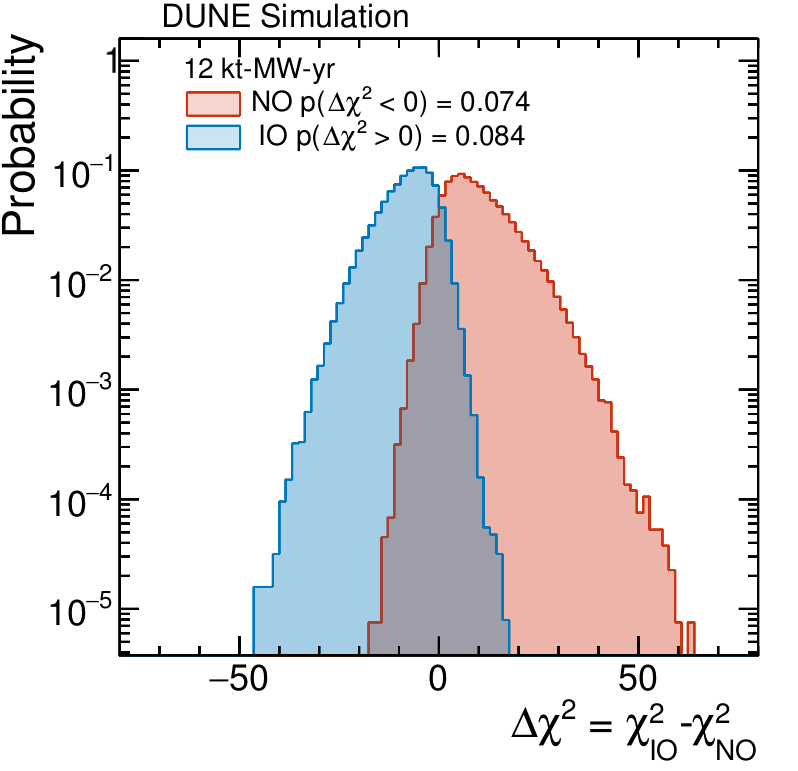
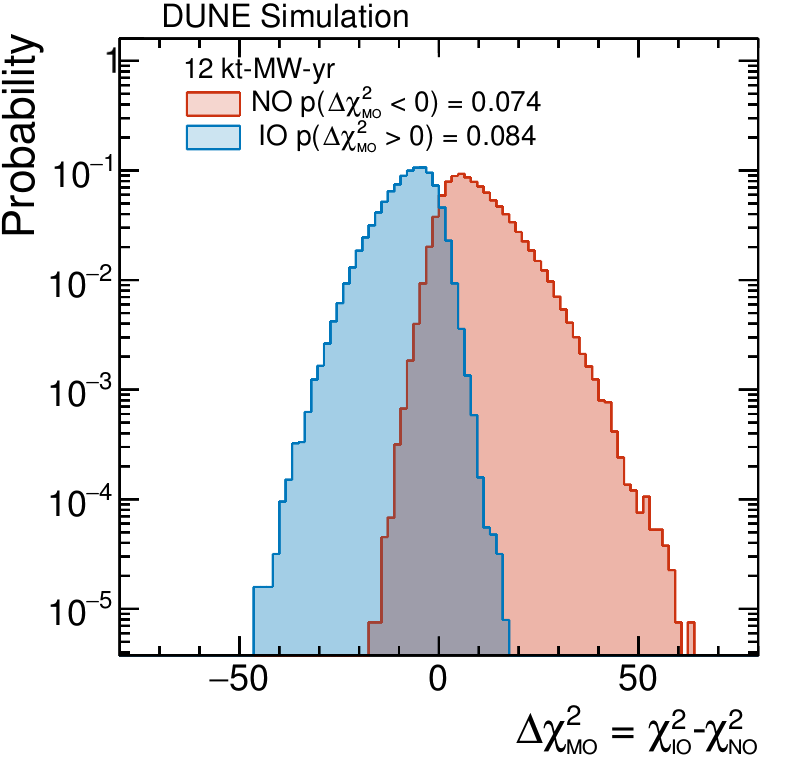
Nearly finished the ARC comments...

Changed region(s): [[0.6316, 0.9027, 0.9624, 0.9961], [0.4511, 0.0934, 0.6917, 0.2179]]

diff --git a/sections/cp_sens.tex b/sections/cp_sens.tex
@@ -11,9 +11,9 @@ In this section, CPV sensitivity results are presented. For simplicity, only tru
   \caption{Significance of the DUNE determination of CP-violation ($\deltacp \neq \{0,\pm\pi\}$) as a function of the true value of \deltacp, for 66 kt-MW-yr (blue) and 100 kt-MW-yr (orange) exposures, for normal (top) and inverted (bottom) orderings. The width of the transparent bands cover 68\% of fits in which random throws are used to simulate systematic, oscillation parameter and statistical variations, with independent fits performed for each throw constrained by prior uncertainties. The solid lines show the median significance.}
   \label{fig:cpv_bands}
 \end{figure}
-Figure~\ref{fig:cpv_bands} shows the significance with which CPV ($\deltacp \neq \{0,\pm\pi\}$) can be observed for both NO and IO, for exposures of 66 and 100 kt-MW-yr.  The sensitivity metric used is the square root of the difference between the best fit $\chi^{2}$ value obtained for a CP-conserving fit and one where \deltacp is allowed to vary, as shown in Equation~\ref{eq:mh_chi2}, which is calculated for each throw of the systematic, other oscillation parameters and statistics. This constant-\dchisq method is valid as long as Wilks' theorem can be applied~\cite{wilks}.
+Figure~\ref{fig:cpv_bands} shows the significance with which CPV ($\deltacp \neq \{0,\pm\pi\}$) can be observed for both NO and IO, for exposures of 66 and 100 kt-MW-yr.  The sensitivity metric used is the square root of the difference between the best fit $\chi^{2}$ values obtained for a CP-conserving fit and one where \deltacp is allowed to vary, as shown in Equation~\ref{eq:mh_chi2}, which is calculated for each throw of the systematic, other oscillation parameters and statistics. This constant-\dchisq method is valid as long as Wilks' theorem can be applied~\cite{wilks}.
 
-The sensitivity shown in Figure~\ref{fig:cpv_bands} has a characteristic double peak structure because the significance of a CPV measurement decreases around CP-conserving values. The systematic and statistical variations which mean that all throws have $\Delta\chi^{2} \geq 0$, and therefore neither the median significance nor the band showing the central 68\% of throws reach exactly 0 at CP-conserving values. This is entirely expected, it simply means that random variations in the data will cause us to obtain a 1$\sigma$ measurement of CPV $\sim$32\% of the time for CP-conserving values. Median significances are slightly higher for IO than for NO, and by exposures of 100 kt-MW-yr, the median significance exceeds 3$\sigma$ for the maximal CP-violating values of $\pm\pi/2$. This presentation of the CPV sensitivity was followed in Ref.~\cite{Abi:2020qib}, and is very informative at high exposures. Around CP-conserving values ($\deltacp = \{0,\pm\pi\}$), the distribution of the sensitivity metric $\sqrt{\dchisq}$ is highly non-Gaussian for all exposures. Additionally, at lower exposures, as shown in Figure~\ref{fig:cpv_bands}, the distribution of $\sqrt{\dchisq}$ around maximally CP-violating values of $\deltacp = \pm\pi/2$ is increasingly non-Gaussian, making the spread in sensitivity harder to interpret with this presentation.
+The sensitivity shown in Figure~\ref{fig:cpv_bands} has a characteristic double peak structure because the significance of a CPV measurement decreases around CP-conserving values. The systematic and statistical variations which mean that all throws have $\dchisqCPV \geq 0$, and therefore neither the median significance nor the band showing the central 68\% of throws reach exactly 0 at CP-conserving values. This is entirely expected, it simply means that random variations in the data will cause us to obtain a 1$\sigma$ measurement of CPV $\sim$32\% of the time for CP-conserving values. Median significances are slightly higher for IO than for NO, and by exposures of 100 kt-MW-yr, the median significance exceeds 3$\sigma$ for the maximal CP-violating values of $\pm\pi/2$. This presentation of the CPV sensitivity was followed in Ref.~\cite{Abi:2020qib}, and is very informative at high exposures. Around CP-conserving values ($\deltacp = \{0,\pm\pi\}$), the distribution of the sensitivity metric $\sqrt{\dchisqCPV}$ is highly non-Gaussian for all exposures. Additionally, at lower exposures, as shown in Figure~\ref{fig:cpv_bands}, the distribution of $\sqrt{\dchisqCPV}$ around maximally CP-violating values of $\deltacp = \pm\pi/2$ is increasingly non-Gaussian, making the spread in sensitivity harder to interpret with this presentation.
 
 \begin{figure*}[htbp]
   \centering
@@ -40,20 +40,20 @@ Figure~\ref{fig:cpv_vs_exp} shows the fraction of throws which exceed different 
 
 % \FloatBarrier
 % \subsection{Feldman-Cousins studies}
-Previous results have calculated confidence intervals and significances using constant $\Delta\chi^{2}$ critical values. For example, in the CPV results shown in Figure~\ref{fig:cpv_over_time}, the confidence intervals are calculated assuming one degree of freedom, so $\Delta\chi^{2} \leq 1, 4, 9$ corresponds to a significance of 1, 2 and 3$\sigma$, respectively. This assumption holds when Wilks' theorem can be applied~\cite{wilks}, but can lead to incorrect coverage where it cannot. It is known to break down for low-statistics samples, around physical boundaries, in the case of cyclic parameters, and where there are significant degeneracies. It is likely that a constant $\Delta\chi^{2}$ treatment will break down for \deltacp, where all of these issues apply, as has indeed been shown by the T2K Collaboration~\cite{Abe:2021gky}.
+Previous results have calculated confidence intervals and significances using constant \dchisq critical values. For example, in the CPV results shown in Figure~\ref{fig:cpv_over_time}, the confidence intervals are calculated assuming one degree of freedom, so $\dchisqCPV \leq 1, 4, 9$ corresponds to a significance of 1, 2 and 3$\sigma$, respectively. This assumption holds when Wilks' theorem can be applied~\cite{wilks}, but can lead to incorrect coverage where it cannot. It is known to break down for low-statistics samples, around physical boundaries, in the case of cyclic parameters, and where there are significant degeneracies. It is likely that a constant \dchisq treatment will break down for \deltacp, where all of these issues apply, as has indeed been shown by the T2K Collaboration~\cite{Abe:2021gky}.
 
-The Feldman-Cousins method~\cite{Feldman:1997qc} is a brute force numerical method to calculate confidence intervals with correct coverage. A large number of toy experiments are produced, where the parameter(s) of interest (here \deltacp) is set to a desired true value, all other systematic and oscillation parameters are thrown, as described in Section~\ref{sec:analysis_framework}, and a statistical throw is made, for the two ND samples and four FD sample used in the analysis. Then two fits are performed, one where the parameter(s) of interest are fixed to the true value, and another where the test statistic is minimized with respect to the parameter(s) of interest. In both fits, all other parameters are allowed to vary. For each throw, the profile likelihood ratio $\dchisq_{\mathrm{FC}}$ is calculated using the minimum $\chi^{2}$ values for those two fits, as in Equation~\ref{eq:dchisq_fc}.
+The Feldman-Cousins method~\cite{Feldman:1997qc} is a brute force numerical method to calculate confidence intervals with correct coverage. A large number of toy experiments are produced, where the parameter(s) of interest (here \deltacp) is set to a desired true value, all other systematic and oscillation parameters are thrown, as described in Section~\ref{sec:analysis_framework}, and a statistical throw is made, for the two ND samples and four FD sample used in the analysis. Then two fits are performed, one where the parameter(s) of interest are fixed to the true value, and another where the test statistic is minimized with respect to the parameter(s) of interest. In both fits, all other parameters are allowed to vary. For each throw, the profile likelihood ratio \dchisqFC is calculated using the minimum $\chi^{2}$ values for those two fits, as in Equation~\ref{eq:dchisq_fc}.
 \begin{equation}
-  \Delta\chi^{2}_{\mathrm{FC}} = \chi^{2}(\theta_{\mathrm{true}}) - \min_{\theta}\chi^{2}(\theta)
+  \dchisqFC = \chi^{2}(\theta_{\mathrm{true}}) - \min_{\theta}\chi^{2}(\theta)
   \label{eq:dchisq_fc}
 \end{equation}
 \begin{figure}[htbp]
   \centering
   \includegraphics[width=0.8\columnwidth]{nh_FC_ndfd_100ktMWyr_dcp0.png}
-  \caption{Distribution of \dchisq values, calculated using Equation~\ref{eq:dchisq_fc}, for a large number of throws with true $\deltacp = 0$, and a 100 kt-MW-yr exposure. The \dchisqcrit values (vertical lines) obtained using the Feldman-Cousins method show the \dchisq value below which 68.27\% (1$\sigma$), 90\%, 95.45\% (2$\sigma$) and 99.73\% (3$\sigma$) of throws reside, with the calculated values given in the legend. The number of throws used is also given.}
+  \caption{Distribution of \dchisqFC values, calculated using Equation~\ref{eq:dchisq_fc}, for a large number of throws with true $\deltacp = 0$, and a 100 kt-MW-yr exposure. The \dchisqcrit values (vertical lines) obtained using the Feldman-Cousins method show the \dchisqFC value below which 68.27\% (1$\sigma$), 90\%, 95.45\% (2$\sigma$) and 99.73\% (3$\sigma$) of throws reside, with the calculated values given in the legend. The number of throws used is also given.}
   \label{fig:fc_throws}
 \end{figure}
-The distribution of these throws is used to calculate the \dchisqcrit that gives the desired coverage, with the appropriate fraction of toys above/below the calculated value. A distribution of \dchisq values is shown in Figure~\ref{fig:fc_throws} for an example ND+FD analysis with a 100kt-MW-yr exposure at the far detector, equal FHC and RHC run fractions, and the reactor $\theta_{13}$ constraint applied. In Figure~\ref{fig:fc_throws}, the \dchisqcrit values corresponding to for 68.27\% (1$\sigma$), 90\%, 95.45\% (2$\sigma$) and 99.73\% (3$\sigma$) of the throws are indicated. The \dchisqcrit values were only calculated up to the 3$\sigma$ level due to the very large number of throws required for higher confidence levels.
+The distribution of these throws is used to calculate the \dchisqcrit that gives the desired coverage, with the appropriate fraction of toys above/below the calculated value. A distribution of \dchisqFC values is shown in Figure~\ref{fig:fc_throws} for an example ND+FD analysis with a 100kt-MW-yr exposure at the far detector, equal FHC and RHC run fractions, and the reactor $\theta_{13}$ constraint applied. In Figure~\ref{fig:fc_throws}, the \dchisqcrit values corresponding to for 68.27\% (1$\sigma$), 90\%, 95.45\% (2$\sigma$) and 99.73\% (3$\sigma$) of the throws are indicated. The \dchisqcrit values were only calculated up to the 3$\sigma$ level due to the very large number of throws required for higher confidence levels.
 
 An uncertainty on the value of \dchisqcrit obtained from the toy throw distribution (e.g., Figure~\ref{fig:fc_throws}), is obtained using a bootstrap rethrowing method~\cite{rice2006mathematical}. The empirical PDF obtained from the throws is treated as the true PDF, and $B$ independent samples of size $n$ are drawn from it, where $n$ is the total number of throws used to build the empirical PDF. Note that each throw can be drawn multiple times in this method, so the ensemble of throws is different in each sample. Then, the standard deviation $s_{\hat{\vartheta}}$, on the \dchisqcrit values of interest, $\vartheta$, are calculated for each of the $B$ samples using:
 \begin{equation}
@@ -65,18 +65,18 @@ where $\vartheta_{i}^{*}$ denotes the calculated \dchisqcrit value of interest f
 \begin{figure}[htbp]
   \centering
   \includegraphics[width=0.8\columnwidth]{dchi2crit_vs_exp_dcp0.png}
-  \caption{The \dchisqcrit values corresponding to 68.27\% (1$\sigma$), 90\%, 95.45\% (2$\sigma$) and 99.73\% (3$\sigma$) of throws, shown for true $\deltacp = 0$, as a function of exposure. The uncertainty on the \dchisqcrit values is obtained using Equation~\ref{eq:fc_uncertainty}, and is indicated as the shaded line. To guide the eye, horizontal dashed lines are included which indicate the 1$\sigma$, 90\%, 2$\sigma$ and 3$\sigma$ \dchisq values assumed using the constant-\dchisq method, with one degree of freedom. The distribution of throws used produced to calculate the \dchisqcrit values shown are given in Figure~\ref{fig:fc_throws_exp}.}
+  \caption{The \dchisqcrit values corresponding to 68.27\% (1$\sigma$), 90\%, 95.45\% (2$\sigma$) and 99.73\% (3$\sigma$) of throws, shown for true $\deltacp = 0$, as a function of exposure. A linear $x$-axis scale is used to highlight the stability of \dchisqcrit values for large exposures. The uncertainty on the \dchisqcrit values is obtained using Equation~\ref{eq:fc_uncertainty}, and is indicated as the shaded line. To guide the eye, horizontal dashed lines are included which indicate the 1$\sigma$, 90\%, 2$\sigma$ and 3$\sigma$ \dchisq values assumed using the constant-\dchisq method, with one degree of freedom. The distribution of throws used produced to calculate the \dchisqcrit values shown are given in Figure~\ref{fig:fc_throws_exp}.}
   \label{fig:fc_vs_exp}
 \end{figure}
 Figure~\ref{fig:fc_vs_exp} shows the evolution of the \dchisqcrit values as a function of exposure for $\deltacp = 0$, the relevant value for CPV sensitivity, for an ND+FD analysis with equal FHC and RHC running and the reactor $\theta_{13}$ constraint applied.
 %Several values were checked for $\deltacp = \pm\pi$ and similar results were found, so Figure~\ref{fig:fc_vs_exp} can be thought of as the threshold for CPV significance.
-For all significance levels tested, the \dchisqcrit rise quickly as a function of exposure, and stabilize at values slightly higher than those suggested by the constant \dchisq method by exposures of $\sim$100 kt-MW-yr. The initial rise in the \dchisqcrit values is due to the low statistics at those exposures. Overall, this implies that the CPV significance is slightly weaker than what would be inferred from $\sigma = \sqrt{\dchisq}$, as used in earlier Figures shown in this work. Crucially, there is no constant increase in the \dchisqcrit values over time as has been reported by the T2K Collaboration~\cite{Abe:2021gky}. Details on the number of toy throws used at each point of Figure~\ref{fig:fc_vs_exp} are given in the Appendix, and the toy throw distributions from which the \dchisqcrit values and their uncertainties were calculated are shown in Figure~\ref{fig:fc_throws_exp}.
+For all significance levels tested, the \dchisqcrit rise quickly as a function of exposure, and stabilize at values slightly higher than those suggested by the constant \dchisq method by exposures of $\sim$100 kt-MW-yr. The initial rise in the \dchisqcrit values is due to the low statistics at those exposures. Overall, this implies that the CPV significance is slightly weaker than what would be inferred from $\sigma = \sqrt{\dchisqCPV}$, as used in earlier Figures shown in this work. Crucially, there is no constant increase in the \dchisqcrit values over time as has been reported by the T2K Collaboration~\cite{Abe:2021gky}. Details on the number of toy throws used at each point of Figure~\ref{fig:fc_vs_exp} are given in the Appendix, and the toy throw distributions from which the \dchisqcrit values and their uncertainties were calculated are shown in Figure~\ref{fig:fc_throws_exp}.
 
 \begin{figure}[htbp]
   \centering
   \subfloat[100 kt-MW-yr]  {\label{fig:fc_vs_dcp_100}\includegraphics[width=0.8\columnwidth]{dchi2crit_vs_dcp_100ktMWyr.png}}\\
   \subfloat[334 kt-MW-yr]  {\label{fig:fc_vs_dcp_334}\includegraphics[width=0.8\columnwidth]{dchi2crit_vs_dcp_334ktMWyr.png}}
-  \caption{The \dchisqcrit values corresponding to 68.27\% (1$\sigma$), 90\%, 95.45\% (2$\sigma$) and 99.73\% (3$\sigma$) of throws, shown as a function of true \deltacp, for exposures of 100 kt-MW-yr and 334 kt-MW-yr. The uncertainty on the \dchisqcrit values is obtained using Equation~\ref{eq:fc_uncertainty}, and is indicated as the shaded line. To guide the eye, horizontal dashed lines are included which indicate the 1$\sigma$, 90\%, 2$\sigma$ and 3$\sigma$ \dchisq values assumed using the constant-\dchisq method, with one degree of freedom. The distribution of throws used produced to calculate the \dchisqcrit values shown are given in Figure~\ref{fig:fc_throws_100kt-MW-yr} (Figure~\ref{fig:fc_throws_334kt-MW-yr}) for 100 kt-MW-yr (334 kt-MW-yr).}
+  \caption{The \dchisqcrit values corresponding to 68.27\% (1$\sigma$), 90\%, 95.45\% (2$\sigma$) and 99.73\% (3$\sigma$) of throws, shown as a function of true \deltacp, for exposures of 100 kt-MW-yr and 334 kt-MW-yr. The uncertainty on the \dchisqcrit values is obtained using Equation~\ref{eq:fc_uncertainty}, and is indicated as the shaded line. To guide the eye, horizontal dashed lines are included which indicate the 1$\sigma$, 90\%, 2$\sigma$ and 3$\sigma$ \dchisqCPV values assumed using the constant-\dchisq method, with one degree of freedom. The distribution of throws used produced to calculate the \dchisqcrit values shown are given in Figure~\ref{fig:fc_throws_100kt-MW-yr} (Figure~\ref{fig:fc_throws_334kt-MW-yr}) for 100 kt-MW-yr (334 kt-MW-yr).}
   \label{fig:fc_vs_dcp}
 \end{figure}
 As \deltacp is a cyclical parameter, with physical boundaries at $\pm\pi$, it is interesting to see how the \dchisqcrit values evolve as a function of it. Figure~\ref{fig:fc_vs_dcp} shows the \dchisqcrit as a function of true \deltacp, for an ND+FD analysis with equal FHC and RHC running including the reactor $\theta_{13}$ constraint, for both 100 kt-MW-yr and 334 kt-MW-yr exposures. There is a noticeable, although not large, depression in the \dchisqcrit values at $\deltacp = \pm\pi/2$ for all significance levels considered. This effect is larger at the lower, 100 kt-MW-yr, exposure, and is larger at higher significance levels. It is also clear from Figure~\ref{fig:fc_vs_dcp} that the \dchisqcrit behaviour is very similar at $\deltacp = \pm\pi/2$ as at $\deltacp = 0$. Although the \dchisqcrit values are relevant for CPV sensitivity, this evolution of the \dchisqcrit values with \deltacp will be important for estimating DUNE's \deltacp resolution. Details on the number of toy throws used at each point of Figure~\ref{fig:fc_vs_dcp} are given in the Appendix, and the toy throw distributions used to calculate the \dchisqcrit values and uncertainties are shown for the 100 kt-MW-yr (334 kt-MW-yr) test points in Figure~\ref{fig:fc_throws_100kt-MW-yr} (Figure~\ref{fig:fc_throws_334kt-MW-yr}).

diff --git a/sections/mh_sens.tex b/sections/mh_sens.tex
@@ -10,7 +10,7 @@ In this section, the toy-throwing approach described in Section~\ref{sec:analysi
   \caption{Significance of the DUNE determination of the neutrino mass ordering, as a function of the true value of \deltacp, for 66 kt-MW-yr (blue) and 100 kt-MW-yr (orange) exposures. The width of the transparent bands cover 68\% of fits in which random throws are used to simulate systematic, oscillation parameter and statistical variations, with independent fits performed for each throw constrained by prior uncertainties. The solid lines show the median significance.}
   \label{fig:mh_bands}
 \end{figure}
-Figure~\ref{fig:mh_bands} shows the significance with which the neutrino mass ordering can be determined for both true NO and IO, for exposures of 66 and 100 kt-MW-yr. The sensitivity metric used is the square root of the difference between the best fit $\chi^{2}$ value obtained using each ordering, as shown in Equation~\ref{eq:mh_chi2}, which is calculated for each throw of the systematics, other oscillation parameters and statistics. The characteristic shape of the MH sensitivity in Figure~\ref{fig:mh_bands} results from near degeneracy between matter and CPV effects that occurs near $\deltacp=\pi/2$ ($\deltacp=-\pi/2$) for true normal (inverted) ordering. Note that dedicated studies have shown that special attention must be paid to the statistical interpretation of neutrino mass ordering sensitivities~\cite{Ciuffoli:2013rza,Qian:2012zn,Blennow:2013oma} because the \dchisq metric does not follow the expected chi-square distribution for one degree of freedom, so the interpretation of the $\sqrt{\dchisq}$ as the sensitivity is complicated.
+Figure~\ref{fig:mh_bands} shows the significance with which the neutrino mass ordering can be determined for both true NO and IO, for exposures of 66 and 100 kt-MW-yr. The sensitivity metric used is the square root of the difference between the best fit $\chi^{2}$ value obtained using each ordering, as shown in Equation~\ref{eq:mh_chi2}, which is calculated for each throw of the systematics, other oscillation parameters and statistics. The characteristic shape of the MH sensitivity in Figure~\ref{fig:mh_bands} results from near degeneracy between matter and CPV effects that occurs near $\deltacp=\pi/2$ ($\deltacp=-\pi/2$) for true normal (inverted) ordering. Note that dedicated studies have shown that special attention must be paid to the statistical interpretation of neutrino mass ordering sensitivities~\cite{Ciuffoli:2013rza,Qian:2012zn,Blennow:2013oma} because the \dchisqMO metric does not follow the expected chi-square distribution for one degree of freedom, so the interpretation of the $\sqrt{\dchisqMO}$ as the sensitivity is complicated.
 
 \begin{figure*}[htbp]
   \centering
@@ -20,12 +20,18 @@ Figure~\ref{fig:mh_bands} shows the significance with which the neutrino mass or
   \subfloat[66 kt-MW-yr]  {\includegraphics[width=0.33\linewidth]{MH_comp_ndfd_66ktMWyr_th13.png}}
   \subfloat[100 kt-MW-yr] {\includegraphics[width=0.33\linewidth]{MH_comp_ndfd_100ktMWyr_th13.png}}
   \subfloat[334 kt-MW-yr] {\includegraphics[width=0.33\linewidth]{MH_comp_ndfd_334ktMWyr_th13.png}}
-  \caption{The distribution of $\dchisq = \chi^{2}_{\mathrm{IO}} - \chi^{2}_{\mathrm{NO}}$ values shown for both true normal (red) and true inverted (blue) hierarchies built using random throws of the systematic parameters, the oscillation parameters and with statistical variations. In each case, the $\chi^{2}$ values are separately minimized with respect to all variable parameters before calculating the test statistic. The fraction of throws for which the value of \dchisq is greater than (less than) 0 is also given for inverted (normal) hierarchies. For each ordering and exposure, approximately 100,000 throws were used.}
+  \caption{The distribution of $\dchisqMO = \chi^{2}_{\mathrm{IO}} - \chi^{2}_{\mathrm{NO}}$ values shown for both true normal (red) and true inverted (blue) hierarchies built using random throws of the systematic parameters, the oscillation parameters and with statistical variations. In each case, the $\chi^{2}$ values are separately minimized with respect to all variable parameters before calculating the test statistic. The fraction of throws for which the value of \dchisqMO is greater than (less than) 0 is also given for inverted (normal) hierarchies. For each ordering and exposure, approximately 100,000 throws were used.}
   \label{fig:mh_comp_over_time}
 \end{figure*}
-Given the complications with the interpretation of significance for mass ordering determination, it is instructive to look at the distribution of the test-statistic (Equation~\ref{eq:mh_chi2}), which gives more information than the 68\% central band and median throw shown in Figure~\ref{fig:mh_bands}. Figure~\ref{fig:mh_comp_over_time} shows the distribution of \dchisq obtained for a large ensemble of throws, for both true and inverted orderings, for a number of different exposures. Note that there is a uniform distribution of true \deltacp used in the throws at each exposure. The change in shape at higher exposures in Figure~\ref{fig:mh_comp_over_time} is due to the degeneracy between \deltacp and the effect of the mass ordering, and as might be expected from Figure~\ref{fig:mh_bands}, the separation between hierarchies is greater for some true values of \deltacp than others. Note that this additional structure starts to become obvious from a $\sim$66 kt-MW-yr exposure, at which point the CPV sensitivity is not very strong (see Section~\ref{sec:cp_sens}). For all exposures, the shape of the throw distribution is highly non-Gaussian, which makes it difficult to apply simple corrections to the sensitivity of the sort described in Ref.~\cite{Blennow:2013oma}. As a result alternatives to $\sqrt{\dchisq}$ as a sensitivity metric are not explored, but note that the full information is given in Figure~\ref{fig:mh_comp_over_time}.
+Given the complications with the interpretation of significance for mass ordering determination, it is instructive to look at the distribution of the test-statistic (Equation~\ref{eq:mh_chi2}), which gives more information than the 68\% central band and median throw shown in Figure~\ref{fig:mh_bands}. Figure~\ref{fig:mh_comp_over_time} shows the distribution of \dchisqMO obtained for a large ensemble of throws, for both true and inverted orderings, for a number of different exposures. Note that there is a uniform distribution of true \deltacp used in the throws at each exposure. The change in shape at higher exposures in Figure~\ref{fig:mh_comp_over_time} is due to the degeneracy between \deltacp and the effect of the mass ordering, and as might be expected from Figure~\ref{fig:mh_bands}, the separation between hierarchies is greater for some true values of \deltacp than others. Note that this additional structure starts to become obvious from a $\sim$66 kt-MW-yr exposure, at which point the CPV sensitivity is not very strong (see Section~\ref{sec:cp_sens}). For all exposures, the shape of the throw distribution is highly non-Gaussian, which makes it difficult to apply simple corrections to the sensitivity of the sort described in Ref.~\cite{Blennow:2013oma}. As a result alternatives to $\sqrt{\dchisqMO}$ as a sensitivity metric are not explored, but note that the full information is given in Figure~\ref{fig:mh_comp_over_time}.
 
-Figure~\ref{fig:mh_comp_over_time} also indicates the probability for the test statistic \dchisq to be less (more) than zero from the toy throws for true normal (inverted) hierarchies at each exposure. This marks the proportion of toys which appear more like the incorrect ordering than the true ordering for the toy. However, it is not easily converted to a single number sensitivity, although it does indicate the risk of a type I/type II error if the \dchisq value obtained by an experiment is exactly zero. It is clear from Figure~\ref{fig:mh_comp_over_time} that DUNE is sensitive to the mass ordering even from very low ($\sim$12 kt-MW-yr) exposures, and by exposures of 66 kt-MW-yr, the overlap between the orderings is very small.
+\begin{figure}[htbp]
+  \centering
+  \includegraphics[width=0.8\linewidth]{fraction_throws_vs_exp_wrong_ordering.pdf}
+  \caption{The probability for preferring the wrong neutrino mass ordering as a function, shown for both true NO and IO.}
+  \label{fig:mh_wrong}
+\end{figure}
+Figure~\ref{fig:mh_comp_over_time} also indicates the probability for the test statistic \dchisqMO to be less (more) than zero from the toy throws for true normal (inverted) orderings at each exposure. This information is summarized in Figure~\ref{fig:mh_wrong}. This marks the proportion of toys which appear more like the incorrect ordering than the true ordering for the toy, and gives a sense of the ambiguity between the hierarchies, although it is not easily converted to a single number sensitivity. It is clear from Figures~\ref{fig:mh_comp_over_time} and~\ref{fig:mh_wrong} that DUNE is sensitive to the mass ordering even from very low ($\sim$12 kt-MW-yr) exposures, with a small probability for preferring the incorrect ordering. By exposures of 66 kt-MW-yr, the overlap between the orderings is very small with $\sim$1\% of toy throws which appear more like the incorrect ordering than the true ordering.
 
 \begin{figure*}[htbp]
   \centering
@@ -39,4 +45,4 @@ Figure~\ref{fig:mh_comp_over_time} also indicates the probability for the test s
   \label{fig:mh_nh_over_time}
 \end{figure*}
 
-Figure~\ref{fig:mh_nh_over_time} shows an alternative way to present the result of the throws as a function of \deltacp, which is complementary to Figure~\ref{fig:mh_bands}. The fraction of throws for which the simple figure of merit (the square-root of Equation~\ref{eq:mh_chi2}) exceeds different confidence levels are shown, for 1--5$\sigma$ significances, and a variety of exposures, all for true NO. The same throws are used as in Figures~\ref{fig:mh_comp_over_time}. Despite the caveats regarding the intepretation of $\sqrt{\dchisq}$ as units of $\sigma$, the general trend is clear, and provides more information about the expected DUNE sensitivity at low exposures. As with Figure~\ref{fig:cpv_over_time}, the point at which the median significance (50\% of throws) passes different significance thresholds can be easily read from the figures, and can be compared with those shown in Figure~\ref{fig:mh_bands}. The same general shape as a function of \deltacp as was observed in Figure~\ref{fig:mh_bands} can be seen. The general trend would be very similar in IO, reflected in the line $\deltacp = 0$, although a slightly longer exposure is required to reach the same sensitivity. The median significance for $\deltacp = -\pi/2$ exceeds 5$\sigma$ for 24 kt-MW-yr, at which point the fraction of throws for which the significance is 3$\sigma$ or smaller is only $\sim$2\%. By 66 kt-MW-yr, 100\% of the throws exceed 5$\sigma$ at $\deltacp = -\pi/2$. By 100 kt-MW-yr exposures, the median significance approaches 5 $\sigma$ for all true values of \deltacp. At long exposures of 334 kt-MW-yr, almost 100\% of the throws exceed 5$\sigma$ for all values of \deltacp.
+Figure~\ref{fig:mh_nh_over_time} shows an alternative way to present the result of the throws as a function of \deltacp, which is complementary to Figure~\ref{fig:mh_bands}. The fraction of throws for which the simple figure of merit (the square-root of Equation~\ref{eq:mh_chi2}) exceeds different confidence levels are shown, for 1--5$\sigma$ significances, and a variety of exposures, all for true NO. The same throws are used as in Figures~\ref{fig:mh_comp_over_time}. Despite the caveats regarding the intepretation of $\sqrt{\dchisqMO}$ as units of $\sigma$, the general trend is clear, and provides more information about the expected DUNE sensitivity at low exposures. As with Figure~\ref{fig:cpv_over_time}, the point at which the median significance (50\% of throws) passes different significance thresholds can be easily read from the figures, and can be compared with those shown in Figure~\ref{fig:mh_bands}. The same general shape as a function of \deltacp as was observed in Figure~\ref{fig:mh_bands} can be seen. The general trend would be very similar in IO, reflected in the line $\deltacp = 0$, although a slightly longer exposure is required to reach the same sensitivity. The median significance for $\deltacp = -\pi/2$ exceeds 5$\sigma$ for 24 kt-MW-yr, at which point the fraction of throws for which the significance is 3$\sigma$ or smaller is only $\sim$2\%. By 66 kt-MW-yr, 100\% of the throws exceed 5$\sigma$ at $\deltacp = -\pi/2$. By 100 kt-MW-yr exposures, the median significance approaches 5 $\sigma$ for all true values of \deltacp. At long exposures of 334 kt-MW-yr, almost 100\% of the throws exceed 5$\sigma$ for all values of \deltacp.

diff --git a/sections/analysis_framework.tex b/sections/analysis_framework.tex
@@ -4,11 +4,11 @@ This work uses the flux, neutrino interaction and detector model described in de
 
 %% Flux in brief
 \subsection{Neutrino flux}
-DUNE will operate with two different beam modes, which depend on the polarity of the electromagnetic horns used to focus secondary particles produced after protons from the primary beam line interact in the target. Forward horn current (FHC) corresponds to neutrino-enhanced running, and reverse-horn current (RHC) corresponds to antineutrino-enhanced running. The neutrino flux prediction is generated with G4LBNF~\cite{Aliaga:2016oaz,Abi:2020evt}, using the LBNF optimized beam design~\cite{Abi:2020evt}. Flux uncertainties are due to uncertainties in the production rates and kinematic distributions of hadrons produced in the target and uncertainties in the parameters of the beam line, such as horn currents and horn and target positioning (``focusing uncertainties'')~\cite{Abi:2020evt}. They are evaluated using current measurements of hadron production and LBNF estimates of alignment tolerances, giving flux uncertainties of approximately 8\% at the first oscillation maximum, which are highly correlated across energy bins and neutrino flavors. A flux covariance as a function of neutrino energy, beam mode, detector, and neutrino species is generated with a ``toy throw'' approach, which is build using variations (``throws'') of the systematics propagated through the full beam line simulation. To reduce the number of parameters used in the fit, the covariance matrix is then diagonalized, and each principal component is treated as an uncorrelated nuisance parameter. Only the first $\sim$30 principal components (out of 108) were found to have a significant effect in the analysis and are included. Note that the unoscillated fluxes at the ND and FD are similar, and the differences between them are understood at the percent level.
+DUNE will operate with two different beam modes, which depend on the polarity of the electromagnetic horns used to focus secondary particles produced after protons from the primary beam line interact in the target. Forward horn current (FHC) corresponds to neutrino-enhanced running, and reverse-horn current (RHC) corresponds to antineutrino-enhanced running. In both FHC and RHC there are significant contributions from neutrinos with energies between 0.5--6 GeV, with a flux peak at $\sim$2.5 GeV. The neutrino flux prediction is generated with G4LBNF~\cite{Aliaga:2016oaz,Abi:2020evt}, using the LBNF optimized beam design~\cite{Abi:2020evt}. Flux uncertainties are due to uncertainties in the production rates and kinematic distributions of hadrons produced in the target and uncertainties in the parameters of the beam line, such as horn currents and horn and target positioning (``focusing uncertainties'')~\cite{Abi:2020evt}. They are evaluated using current measurements of hadron production and LBNF estimates of alignment tolerances, giving flux uncertainties of approximately 8\% at the first oscillation maximum, which are highly correlated across energy bins and neutrino flavors. A flux covariance as a function of neutrino energy, beam mode, detector, and neutrino species is generated with a ``toy throw'' approach, which is build using variations (``throws'') of the systematics propagated through the full beam line simulation. To reduce the number of parameters used in the fit, the covariance matrix is then diagonalized, and each principal component is treated as an uncorrelated nuisance parameter. Only the first $\sim$30 principal components (out of 108) were found to have a significant effect in the analysis and are included. Note that the unoscillated fluxes at the ND and FD are similar, and the differences between them are understood at the percent level.
 
 %% Neutrino interactions in brief
 \subsection{Neutrino interaction model}
-The interaction model used is based on GENIE v2.12.10~\cite{Andreopoulos:2009rq,Andreopoulos:2015wxa}, although it should be noted that the combination of models used is much closer to some of the physics tunes available with GENIE v3.00.06, including a number of uncertainties beyond those provided by either GENIE version. These are motivated by data, although it should be noted that the available (anti)neutrino data taken on argon targets is sparse, leading to an uncertainty model that relies in a number of places on light target (mostly hydrocarbon) data.
+The interaction model used is based on GENIE v2.12.10~\cite{Andreopoulos:2009rq,Andreopoulos:2015wxa}, although it should be noted that the combination of models used is much closer to some of the physics tunes available with GENIE v3.00.06, including a number of uncertainties beyond those provided by either GENIE version. These are motivated by data, although it should be noted that the available (anti)neutrino data taken on argon targets is sparse, leading to an uncertainty model that relies in a number of places on light target (mostly hydrocarbon) data. Variations in the cross sections are implemented either using GENIE reweighting parameters, or with {\em ad hoc} weights of events designed to parameterize uncertainties or cross-section corrections currently not implemented within GENIE. The latter used alternative generators or GENIE configurations, or custom weightings, which made extensive use of the NUISANCE package~\cite{Stowell:2016jfr} in their development. Further details n the uncertainties used can be found in Ref~\cite{Abi:2020qib} (Section 3).
 
 The nuclear model which describes the initial state of nucleons in the nucleus is the Bodek-Ritchie global Fermi gas model~\cite{BodekRitchie}, which includes empirical modifications to the nucleon momentum distribution to account for short-range correlation effects. The quasi-elastic model uses the Llewelyn-Smith formalism~\cite{llewelyn-smith} with a simple dipole axial form factor, and BBBA05 vector form factors~\cite{bbba05}. Nuclear screening effects and uncertainties are included based on the T2K 2017/8 parameterization~\cite{Abe:2018wpn} of the Valencia group's~\cite{nieves1,nieves2} Random Phase Approximation model. The Valencia model of the multi-nucleon, 2p2h, contribution to the cross section~\cite{nieves1,nieves2} is used, as described in Ref.~\cite{Schwehr:2016pvn}. Both MINERvA~\cite{Rodrigues:2015hik} and NOvA~\cite{NOvA:2018gge} have shown that this model underpredicts observed event rates on carbon at relevant neutrino energies for DUNE. Modifications to the model are constructed to produce agreement with MINERvA CC-inclusive data~\cite{Rodrigues:2015hik}, which are used in the analysis to introduce additional uncertainties on the 2p2h contribution, with energy dependent uncertainties, and extra freedom between neutrinos and antineutrinos. Uncertainties are added on scaling the 2p2h prediction from carbon to argon on electron-scattering measurements of short-range correlated (SRC) pairs taken on multiple targets~\cite{Colle:2015ena}, separately for neutrinos and antineutrinos. GENIE uses a modified version of the Rein-Sehgal (R-S) model for pion production~\cite{Rein:1980wg}. A data-driven modification to the GENIE model is included based on reanalyzed neutrino--deuterium bubble chamber data~\cite{Wilkinson:2014yfa,Rodrigues:2016xjj}. The Deep Inelastic Scattering (DIS) model implemented in GENIE uses the Bodek-Yang parametrization~\cite{Bodek:2002ps}, using GRV98 parton distribution functions~\cite{Gluck:1998xa}. Hadronization is described by the AKGY model~\cite{Yang:2009zx}, which uses the KNO scaling model~\cite{Koba:1972ng} for invariant masses $W \leq 2.3$ GeV and PYTHIA6~\cite{Sjostrand:2006za} for invariant masses $W \geq 3$ GeV, with a smooth transition between the two for intermediate invariant masses. Additional uncertainties developed by the NOvA experiment~\cite{nova_2018} to describe their resonance to DIS transition region data are also included. The final state interaction model and uncertainties available in GENIE are retained~\cite{Dytman:2011zz,Dytman:2015taa,intranuke_2009}.
 

diff --git a/sections/run_plan_opt.tex b/sections/run_plan_opt.tex
@@ -13,7 +13,7 @@ In previous DUNE sensitivity studies~\cite{Abi:2020qib}, equal running times in 
 
 Figure~\ref{fig:run_opt_cpv} shows DUNE's Asimov sensitivity to CPV for a total 100 kt-MW-yr far detector exposure, with different fractions of FHC and RHC running, at the NuFIT 4.0 best fit value in both NO and IO (see Table~\ref{tab:oscpar_nufit}), shown with and without a penalty on $\theta_{13}$ applied. For each point tested, all oscillation and nuisance parameters are allowed to vary, and three fits are carried out, two where \deltacp is set to the CP-conserving values $\deltacp = 0$ and $\deltacp = \pm\pi$, the minimum of which is the CP-conserving best-fit value, and another where \deltacp is allowed to vary. The difference in the best-fit $\chi^{2}$ values is calculated:
 \begin{equation}
-  \Delta\chi^{2}_{\mathrm{CPV}} = \min\left\{\chi^{2}_{\deltacp = 0},\chi^{2}_{\deltacp = \pm\pi}\right\} - \chi^{2}_{\mathrm{CPV}},
+  \dchisqCPV = \min\left\{\chi^{2}_{\deltacp = 0},\chi^{2}_{\deltacp = \pm\pi}\right\} - \chi^{2}_{\mathrm{CPV}},
   \label{eq:cpv_chi2}
 \end{equation}
 \noindent and the square root of the difference is  used as the figure of merit on the y-axis in Figure~\ref{fig:run_opt_cpv}. It should be noted that there are some caveats associated with this figure of merit, which are discussed in Section~\ref{sec:cp_sens}. A 100 kt-MW-yr exposure is shown as it was identified in Ref~\cite{Abi:2020qib} as the exposure at which DUNE's median CPV significance exceeds 3$\sigma$ at $\deltacp = \pm\pi/2$, an important milestone in DUNE's physics program (with equal beam mode running). 
@@ -34,7 +34,7 @@ For regions of phase space where the octant degeneracy does not affect the resul
 \end{figure*}
 Figure~\ref{fig:run_opt_mh} shows DUNE's Asimov sensitivity to the mass ordering for a total 24 kt-MW-yr far detector exposure, with different fractions of FHC and RHC running, and the same four true oscillation parameter sets. A 24 kt-MW-yr exposure is used in Figure~\ref{fig:run_opt_mh} as it is around the exposure at which DUNE's median mass ordering significance exceeds 5$\sigma$ for some vales of \deltacp~\cite{Abi:2020qib}. For each point tested, all oscillation and nuisance parameters are allowed to vary, and two fits are carried out, one using each ordering. The difference in the best-fit $\chi^{2}$ values is calculated:
 \begin{equation}
-  \Delta\chi^{2}_{\mathrm{MO}} = \chi^{2}_{\mathrm{IO}} - \chi^{2}_{\mathrm{NO}},
+  \dchisqMO = \chi^{2}_{\mathrm{IO}} - \chi^{2}_{\mathrm{NO}},
   \label{eq:mh_chi2}
 \end{equation}
 \noindent and the square root of the difference is used as the figure of merit on the y-axis in Figure~\ref{fig:run_opt_mh}. It should be noted that there are some caveats associated with this figure of merit, which are discussed in Section~\ref{sec:mh_sens}. 

diff --git a/main.tex b/main.tex
@@ -42,6 +42,10 @@
     \hbox{{\tiny(}{\lower1.5pt\hbox{\bf--}}{\tiny)}}}}
 \newcommand{\dchisq}{\ensuremath{\Delta\chi^{2}}\xspace}
 \newcommand{\dchisqcrit}{\ensuremath{\Delta\chi^{2}_{c}}\xspace}
+\newcommand{\dchisqMO}{\ensuremath{\Delta\chi^{2}_{\mathrm{MO}}}\xspace}
+\newcommand{\dchisqCPV}{\ensuremath{\Delta\chi^{2}_{\mathrm{CPV}}}\xspace}
+\newcommand{\dchisqFC}{\ensuremath{\Delta\chi^{2}_{\mathrm{FC}}}\xspace}
+
 
 \newcommand{\chris}[1]{\textcolor{red}{#1}}
 
